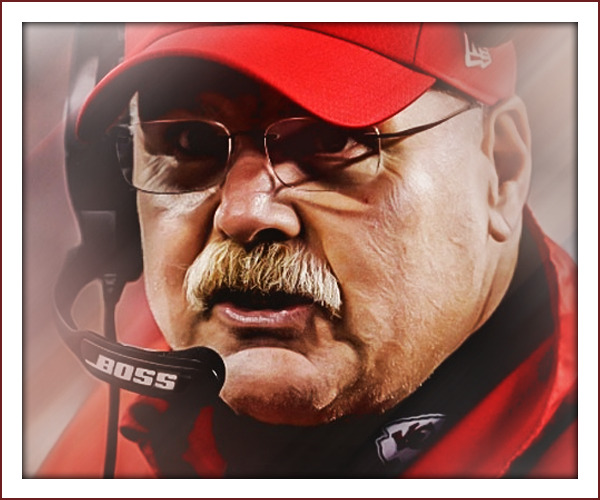
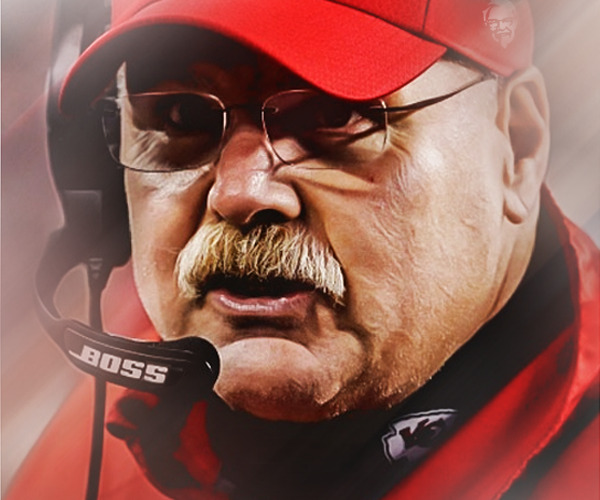
Sidebar - Frameless. Different title

diff --git a/src/scss/_controls.scss b/src/scss/_controls.scss
@@ -19,7 +19,7 @@ $promos: (
 
 // Sidebar Variables
 $sidebarImage: "../img/SB-SuperBowl-Reid.jpg";
-$sidebarHeader: "Andy Got His Ring";
+$sidebarHeader: "LIV LAUGH MAHOMES";
 $sidebarText: "Never count out the Chiefs. In each of their three playoff games they rallied back from at least a 10 point deficit. Finding themselves down 20-10 going into the 4th quarter, they matriculated the ball down the field to rattle off 21 unanswered points and upset the 49ers.";
 $sidebarPicHeight: 250px;
 $sidebarPicOffset: 0;
